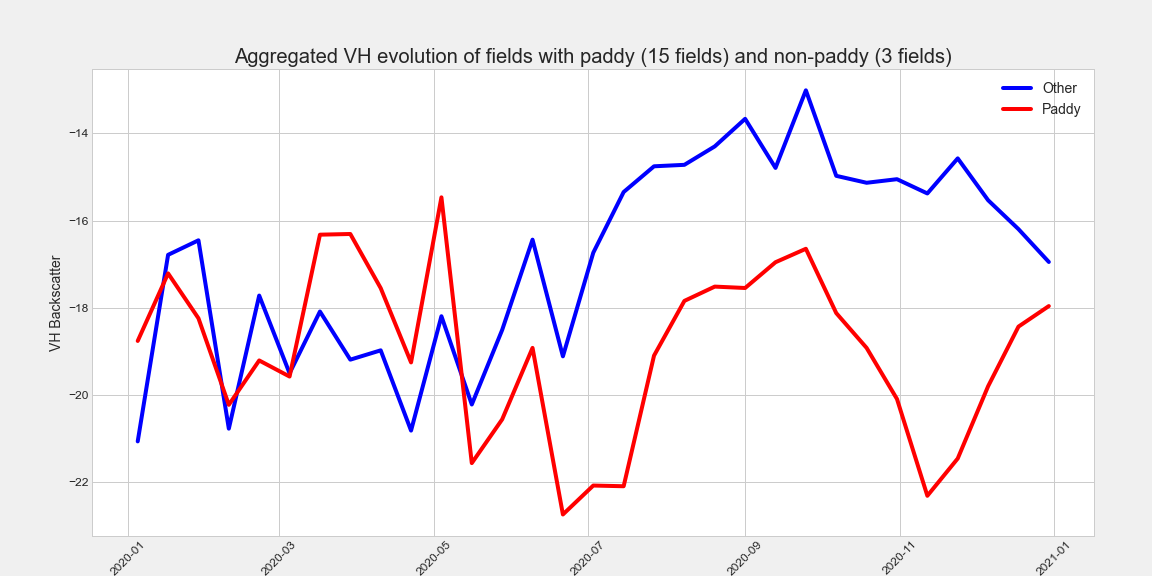
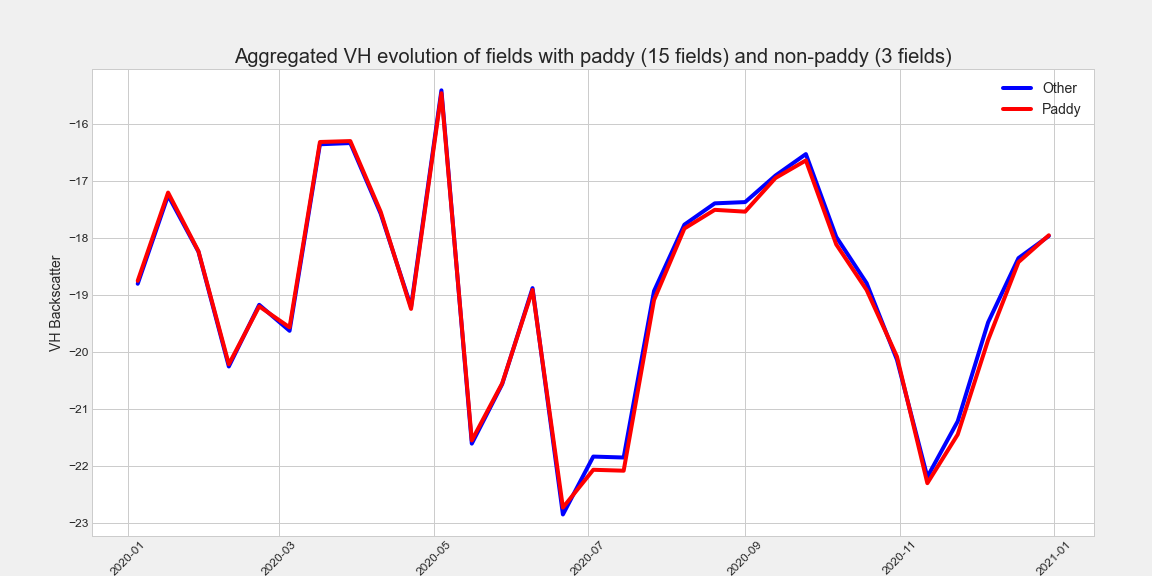
incorporate 14 files

diff --git a/modeling/exploration.py b/modeling/exploration.py
@@ -18,6 +18,19 @@ plt.style.use("seaborn-whitegrid")
 other0 = pd.read_csv("../data/output_clean/other0.csv")
 other1 = pd.read_csv("../data/output_clean/other1.csv")
 other2 = pd.read_csv("../data/output_clean/other2.csv")
+other3 = pd.read_csv("../data/output_clean/other3.csv")
+other4 = pd.read_csv("../data/output_clean/other4.csv")
+other5 = pd.read_csv("../data/output_clean/other5.csv")
+other6 = pd.read_csv("../data/output_clean/other6.csv")
+other7 = pd.read_csv("../data/output_clean/other7.csv")
+other8 = pd.read_csv("../data/output_clean/other8.csv")
+other9 = pd.read_csv("../data/output_clean/other9.csv")
+other10 = pd.read_csv("../data/output_clean/other10.csv")
+other11 = pd.read_csv("../data/output_clean/other11.csv")
+other12 = pd.read_csv("../data/output_clean/other12.csv")
+other13 = pd.read_csv("../data/output_clean/other13.csv")
+other14 = pd.read_csv("../data/output_clean/other14.csv")
+other15 = pd.read_csv("../data/output_clean/other15.csv")
 
 paddy0 = pd.read_csv("../data/output_clean/paddy0.csv")
 paddy1 = pd.read_csv("../data/output_clean/paddy1.csv")
@@ -36,7 +49,24 @@ paddy13 = pd.read_csv("../data/output_clean/paddy13.csv")
 paddy14 = pd.read_csv("../data/output_clean/paddy14.csv")
 paddy15 = pd.read_csv("../data/output_clean/paddy15.csv")
 # %%
-others_data = [other0, other1, other2]
+others_data = [
+    other0,
+    other1,
+    other2,
+    other3,
+    other4,
+    other5,
+    other6,
+    other7,
+    other8,
+    other9,
+    other10,
+    other11,
+    other12,
+    other13,
+    other14,
+    other15,
+]
 paddy_data = [
     paddy0,
     paddy1,
@@ -68,13 +98,6 @@ for data in paddy_data:
 # %%
 plt.figure()
 plt.title("Yearly horizontal backscatter evolution of fields with paddy and non-paddy")
-# Other
-for i, data in enumerate(others_data):
-    if i == 0:
-        plt.plot(data.groupby("date")["VH"].mean(), label="Other", color="b")
-    else:
-        plt.plot(data.groupby("date")["VH"].mean(), color="b")
-
 
 # Paddy
 for i, data in enumerate(paddy_data):
@@ -82,6 +105,17 @@ for i, data in enumerate(paddy_data):
         plt.plot(data.groupby("date")["VH"].mean(), label="Paddy", color="r")
     else:
         plt.plot(data.groupby("date")["VH"].mean(), color="r")
+        
+# Other
+for i, data in enumerate(others_data):
+    if i == 0:
+        plt.plot(data.groupby("date")["VH"].mean(), label="Other", color="b")
+    elif i>3:
+        plt.plot(data.groupby("date")["VH"].mean(), color="k")
+    else:
+        plt.plot(data.groupby("date")["VH"].mean(), color="b")
+
+
 
 
 plt.xticks(rotation=45)
@@ -112,5 +146,7 @@ plt.savefig("images/yearly_aggregated.png")
 plt.show()
 # %%
 
-
+other.shape
+# %%
+paddy.shape
 # %%

diff --git a/modeling/preprocess.py b/modeling/preprocess.py
@@ -18,11 +18,13 @@ for file in files:
     df = df[["VH", "latitude", "longitude"]]
     date = file[17:25]
     df["date"] = date
-    df["field"] = "paddy"
+    df["field"] = "other"
     full = full.append(df)
+# %%
+full.shape
 
 # %%
-full.to_csv("../data/output_clean/paddy15.csv", index=False)
+full.to_csv("../data/output_clean/other15.csv", index=False)
 
 
 # %%
